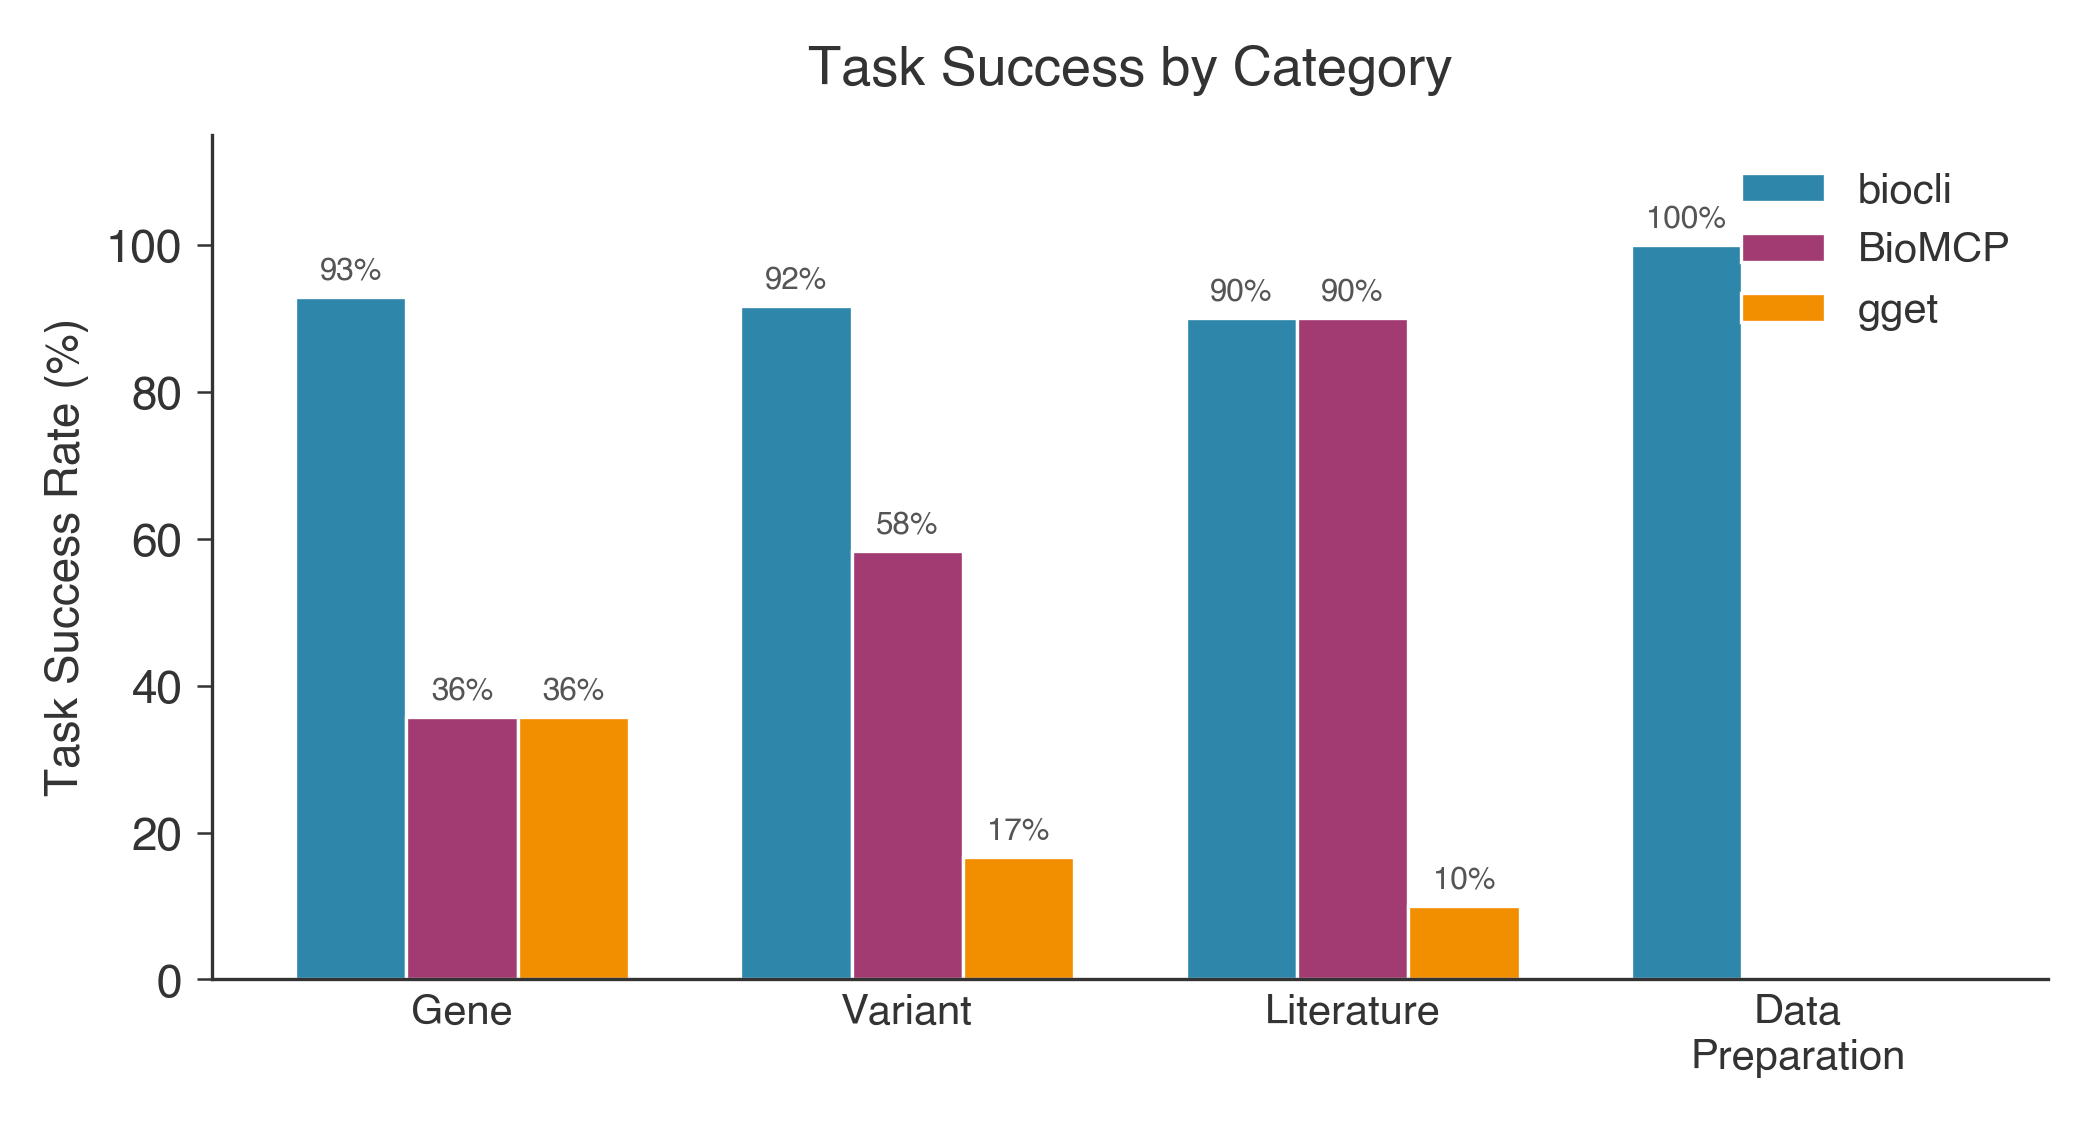
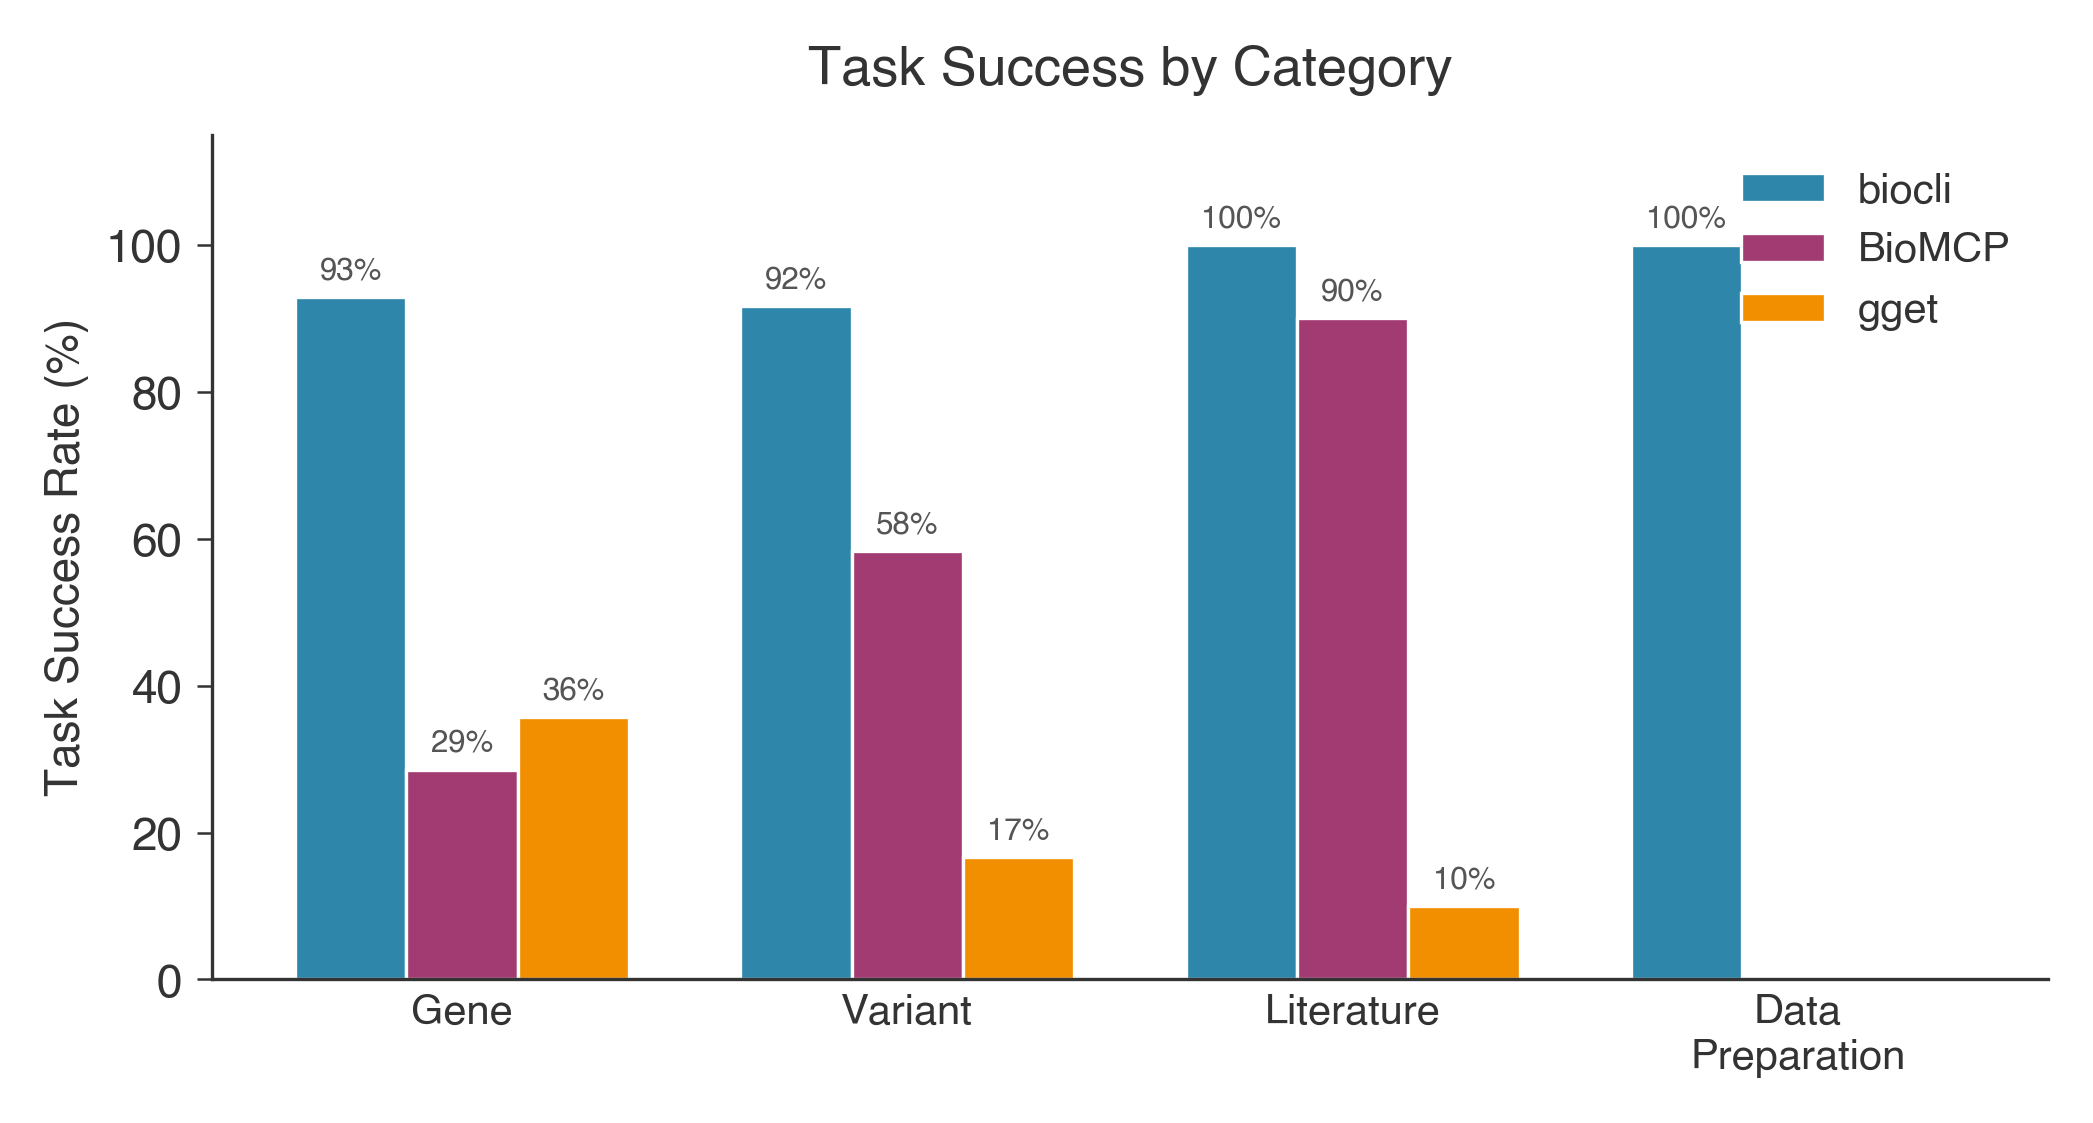
fix: benchmark scoring bugs, add manual audit justifications, narrow scope
Scoring fixes:
- gene-01 ClinVar: >= 0 (always true) → >= 1
- lit-01: add data.papers path (biocli's actual output field)
- gene-02: add p_val/combined_score recognition (gget's field names)

Cross-cutting transparency:
- Scores now carry per-dimension justifications (stored in scored/*.json)
- Summary output labels "manual audit" vs "automated from raw output"
- Each score has explicit reasoning (e.g. "10/10 rubric criteria met")

Scope clarification:
- README title: "Benchmark: Agent-First Biological Workflow Tasks"
- Clearly states task scores are automated, cross-cutting are manual audit

Updated results: biocli 96/100, BioMCP 44/100, gget 24/100.

Changed region(s): [[0.559, 0.187, 0.6211, 0.3117], [0.1863, 0.5922, 0.2484, 0.6857]]

diff --git a/benchmarks/scripts/score.ts b/benchmarks/scripts/score.ts
@@ -84,7 +84,7 @@ function scoreGene01(data: unknown): TaskScore {
     { criterion: 'Includes at least 3 KEGG pathways', met: arrayLength((data as any)?.data?.pathways) >= 3 || arrayLength((data as any)?.pathways) >= 3 },
     { criterion: 'Includes protein interaction partners', met: arrayLength((data as any)?.data?.interactions) >= 1 || hasField(data, 'interactions') },
     { criterion: 'Includes recent PubMed literature', met: arrayLength((data as any)?.data?.recentLiterature) >= 1 || hasField(data, 'literature') },
-    { criterion: 'Includes ClinVar clinical variants', met: arrayLength((data as any)?.data?.clinicalVariants) >= 0 },
+    { criterion: 'Includes ClinVar clinical variants', met: arrayLength((data as any)?.data?.clinicalVariants) >= 1 },
     { criterion: 'Output is structured JSON', met: data !== null && typeof data === 'object' },
   ];
   const met = criteria.filter(c => c.met).length;
@@ -96,7 +96,7 @@ function scoreGene02(data: unknown): TaskScore {
   const criteria = [
     { criterion: 'Accepts comma-separated gene list', met: !isNotSupported(data) },
     { criterion: 'Returns enriched pathways/GO terms', met: isArr },
-    { criterion: 'Includes p-values or scores', met: JSON.stringify(data).includes('pValue') || JSON.stringify(data).includes('p_value') || JSON.stringify(data).includes('Score') },
+    { criterion: 'Includes p-values or scores', met: JSON.stringify(data).includes('pValue') || JSON.stringify(data).includes('p_value') || JSON.stringify(data).includes('p_val') || JSON.stringify(data).includes('Score') || JSON.stringify(data).includes('combined_score') },
     { criterion: 'Output is structured JSON', met: data !== null && typeof data === 'object' },
   ];
   const met = criteria.filter(c => c.met).length;
@@ -163,7 +163,7 @@ function scoreAllTasks(rawDir: string): TaskScore[] {
   ]));
 
   tasks.push(scoreLit('lit-01', 'Literature brief', load('lit-01'), [
-    { criterion: 'Returns at least 3 articles', check: d => arrayLength((d as any)?.data?.articles ?? (d as any)?.rows ?? d) >= 3 },
+    { criterion: 'Returns at least 3 articles', check: d => arrayLength((d as any)?.data?.papers ?? (d as any)?.data?.articles ?? (d as any)?.rows ?? d) >= 3 },
     { criterion: 'Includes titles and abstracts', check: d => s(d).includes('abstract') || s(d).includes('Abstract') },
     { criterion: 'Includes PMIDs and DOIs', check: d => s(d).includes('pmid') || s(d).includes('doi') },
     { criterion: 'Output is structured JSON', check: d => d !== null && typeof d === 'object' },
@@ -206,43 +206,67 @@ function scoreAllTasks(rawDir: string): TaskScore[] {
   return tasks;
 }
 
-// ── Cross-cutting scoring (tool-level, not task-level) ───────────────────────
+// ── Cross-cutting scoring (manual audit, not automated) ──────────────────────
+//
+// These scores are from manual feature inspection, NOT automated testing.
+// Each score has a justification. See rubric.md for criteria definitions.
+// Audited on 2026-04-04 against installed versions.
 
-function scoreCrossCutting(tool: string): CrossCuttingScores {
-  if (tool === 'biocli') {
+interface ManualAuditEntry {
+  score: number;
+  justification: string;
+}
+
+type ManualAudit = Record<keyof CrossCuttingScores, ManualAuditEntry>;
+
+const MANUAL_AUDITS: Record<string, ManualAudit> = {
+  biocli: {
+    agentReadiness:    { score: 10, justification: 'list/help --json, per-command schema, whenToUse/whenNotToUse, capabilities, error recovery suggestions, batch --input (10/10 rubric criteria met)' },
+    workflowDepth:     { score: 10, justification: 'cross-db aggregation, dataset scout, GEO/SRA download, working directory prepare, manifest.json, --plan preview (10/10)' },
+    operationalSafety: { score: 9,  justification: '--dry-run, --plan, --max-size, partial failure reporting, structured error codes, graceful degradation. Missing: no interactive confirmation prompt (-1)' },
+    reproducibility:   { score: 10, justification: 'file cache with TTL, --no-cache, manifest.json with provenance, deterministic BiocliResult envelope, verify/doctor, queriedAt timestamps (10/10)' },
+    outputUsability:   { score: 9,  justification: 'structured JSON, BiocliResult envelope, per-command data schema, auto-JSON in pipe. Minor: some atomic commands lack envelope (-1)' },
+    efficiency:        { score: 8,  justification: 'single commands for complex multi-db tasks, --input batch. Minor: no parallel batch execution, no streaming output (-2)' },
+  },
+  gget: {
+    agentReadiness:    { score: 3,  justification: 'has --json/-j flag (1pt), no help --json (0), no schema (0), no whenToUse (0), no error recovery (0), no batch --input (0), has CLI help text (1pt), has Python API (1pt)' },
+    workflowDepth:     { score: 2,  justification: 'info + seq + enrichr modules (1pt), no cross-db aggregation (0), no scout/prepare (0), can chain via Python (1pt)' },
+    operationalSafety: { score: 2,  justification: 'basic Python error handling (1pt), no dry-run/plan (0), no max-size (0), stderr warnings (1pt)' },
+    reproducibility:   { score: 1,  justification: 'no cache (0), no manifest (0), no verify (0), consistent JSON output format (1pt)' },
+    outputUsability:   { score: 6,  justification: 'JSON output (2pt), DataFrame/CSV (2pt), but no standard envelope (0), no schema (0), consistent field naming (2pt)' },
+    efficiency:        { score: 6,  justification: 'direct single commands (2pt), Python chaining (2pt), no CLI batch input (0), no aggregation commands (0), fast Ensembl lookups (2pt)' },
+  },
+  biomcp: {
+    agentReadiness:    { score: 6,  justification: 'MCP serve mode (2pt), _meta.next_commands (1pt), -j JSON flag (1pt), search/get/pivot grammar (1pt), no help --json with full guidance (0), batch support (1pt)' },
+    workflowDepth:     { score: 4,  justification: 'cross-db gene/variant aggregation (2pt), pivot syntax (1pt), no data download (0), no prepare/manifest (0), local cBioPortal study analysis (1pt)' },
+    operationalSafety: { score: 3,  justification: 'structured error messages (1pt), --no-cache flag (1pt), no dry-run/plan (0), no max-size (0), partial source failure warnings (1pt)' },
+    reproducibility:   { score: 2,  justification: 'HTTP response cache (1pt), no manifest (0), no verify/doctor (0), JSON output with _meta (1pt)' },
+    outputUsability:   { score: 7,  justification: 'structured JSON with _meta envelope (3pt), evidence_urls in output (2pt), Markdown default (1pt), no per-command schema (0), consistent field naming (1pt)' },
+    efficiency:        { score: 7,  justification: 'unified entity grammar (2pt), pivot cross-entity (2pt), batch commands (1pt), single binary (1pt), no streaming (0), fast API routing (1pt)' },
+  },
+};
+
+function scoreCrossCutting(tool: string): { scores: CrossCuttingScores; audits: Record<string, string> } {
+  const audit = MANUAL_AUDITS[tool === 'biomcp' ? 'biomcp' : tool];
+  if (!audit) {
     return {
-      agentReadiness: 10,    // list/help --json, schema, whenToUse, capabilities, error recovery, batch
-      workflowDepth: 10,     // aggregation, scout, download, prepare, manifest, plan
-      operationalSafety: 9,  // dry-run, plan, max-size, partial warnings, error codes, graceful degradation
-      reproducibility: 10,   // cache, --no-cache, manifest, deterministic envelope, verify/doctor, timestamps
-      outputUsability: 9,    // structured JSON, BiocliResult envelope, per-command schema
-      efficiency: 8,         // single commands for complex tasks, batch input
+      scores: { agentReadiness: 0, workflowDepth: 0, operationalSafety: 0, reproducibility: 0, outputUsability: 0, efficiency: 0 },
+      audits: {},
     };
   }
-
-  if (tool === 'gget') {
-    return {
-      agentReadiness: 3,     // has --json but no help --json, no schema, no whenToUse, no error recovery
-      workflowDepth: 2,      // info/seq/enrichr but no cross-db aggregation, no scout/prepare
-      operationalSafety: 2,  // basic error handling, no dry-run/plan
-      reproducibility: 1,    // no cache, no manifest, no verify
-      outputUsability: 6,    // JSON/DataFrame output, but no standard envelope
-      efficiency: 6,         // direct commands but no batch, no aggregation
-    };
+  const scores: CrossCuttingScores = {
+    agentReadiness: audit.agentReadiness.score,
+    workflowDepth: audit.workflowDepth.score,
+    operationalSafety: audit.operationalSafety.score,
+    reproducibility: audit.reproducibility.score,
+    outputUsability: audit.outputUsability.score,
+    efficiency: audit.efficiency.score,
+  };
+  const audits: Record<string, string> = {};
+  for (const [key, entry] of Object.entries(audit)) {
+    audits[key] = entry.justification;
   }
-
-  if (tool === 'biomcp') {
-    return {
-      agentReadiness: 6,     // has MCP serve, _meta.next_commands, but no help --json with full guidance
-      workflowDepth: 4,      // cross-db aggregation + pivot, but no download/prepare/manifest
-      operationalSafety: 3,  // basic error handling, no dry-run/plan/max-size
-      reproducibility: 2,    // no cache, no manifest, no verify
-      outputUsability: 7,    // structured JSON with _meta envelope
-      efficiency: 7,         // pivot syntax is efficient, batch support
-    };
-  }
-
-  return { agentReadiness: 0, workflowDepth: 0, operationalSafety: 0, reproducibility: 0, outputUsability: 0, efficiency: 0 };
+  return { scores, audits };
 }
 
 function computeWeightedTotal(tasks: TaskScore[], cross: CrossCuttingScores): number {
@@ -285,10 +309,20 @@ for (const tool of TOOLS) {
 
   console.log(`Scoring ${tool}...`);
   const tasks = scoreAllTasks(rawDir);
-  const crossCutting = scoreCrossCutting(tool);
+  const { scores: crossCutting, audits: crossCuttingJustifications } = scoreCrossCutting(tool);
   const totalWeighted = computeWeightedTotal(tasks, crossCutting);
 
-  const result: ToolResult = { tool, version: '', date, tasks, crossCutting, totalWeighted };
+  const VERSIONS: Record<string, string> = { biocli: '0.2.0', gget: '0.30.3', biomcp: '0.8.19' };
+  const result: ToolResult & { crossCuttingJustifications?: Record<string, string>; scoredAt?: string } = {
+    tool,
+    version: VERSIONS[tool] ?? '',
+    date,
+    tasks,
+    crossCutting,
+    totalWeighted,
+    crossCuttingJustifications,
+    scoredAt: new Date().toISOString(),
+  };
   summary.push(result);
 
   writeFileSync(join(scoredDir, `${tool}.json`), JSON.stringify(result, null, 2));
@@ -298,7 +332,9 @@ for (const tool of TOOLS) {
 writeFileSync(join(scoredDir, 'summary.json'), JSON.stringify(summary, null, 2));
 
 // Print summary table
-console.log('\n=== Benchmark Summary ===\n');
+console.log('\n=== Benchmark Summary ===');
+console.log('  Task scores: automated from raw output');
+console.log('  Cross-cutting scores: manual audit (see justifications in scored/*.json)\n');
 console.log('Tool'.padEnd(12) + 'Tasks'.padEnd(10) + 'Agent'.padEnd(8) + 'Workflow'.padEnd(10) + 'Safety'.padEnd(8) + 'Repro'.padEnd(8) + 'Total');
 console.log('-'.repeat(64));
 for (const r of summary) {

diff --git a/README.md b/README.md
@@ -48,9 +48,9 @@ Designed for **AI agents** (Claude Code, Codex CLI, etc.) — structured JSON ou
 
 > **gget** excels at sequence analysis (BLAST, AlphaFold, MUSCLE). **BioMCP** covers more biomedical entities (drugs, trials, diseases). **EDirect** has the deepest NCBI Entrez integration. **biocli** is the only one that combines query + download + data preparation into agent-orchestrated workflows.
 
-### Benchmark (2026-04-04, real execution)
+### Benchmark: Agent-First Biological Workflow Tasks (2026-04-04)
 
-12 biology tasks, 7 scoring dimensions. All tools installed and executed locally. [Full methodology →](benchmarks/README.md)
+12 tasks across gene intelligence, variant interpretation, literature search, and data preparation. Task scores are automated from raw output; cross-cutting scores are manual audit with published justifications. [Full methodology →](benchmarks/README.md)
 
 <p align="center">
   <img src="benchmarks/results/2026-04-04/plots/total_scores.png" width="420" alt="Overall benchmark scores">
@@ -58,8 +58,8 @@ Designed for **AI agents** (Claude Code, Codex CLI, etc.) — structured JSON ou
 
 | Tool | Version | Task Success | Agent Readiness | Workflow Depth | Safety | Reproducibility | **Total** |
 |------|---------|:---:|:---:|:---:|:---:|:---:|:---:|
-| **biocli** | 0.2.0 | 46/49 | 10/10 | 10/10 | 9/10 | 10/10 | **95/100** |
-| BioMCP | 0.8.19 | 21/49 | 6/10 | 4/10 | 3/10 | 2/10 | 45/100 |
+| **biocli** | 0.2.0 | 47/49 | 10/10 | 10/10 | 9/10 | 10/10 | **96/100** |
+| BioMCP | 0.8.19 | 20/49 | 6/10 | 4/10 | 3/10 | 2/10 | 44/100 |
 | gget | 0.30.3 | 8/49 | 3/10 | 2/10 | 2/10 | 1/10 | 24/100 |
 
 <details>
